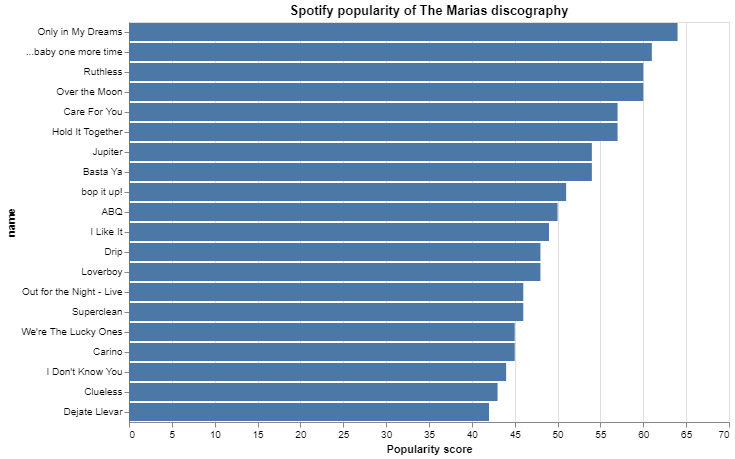
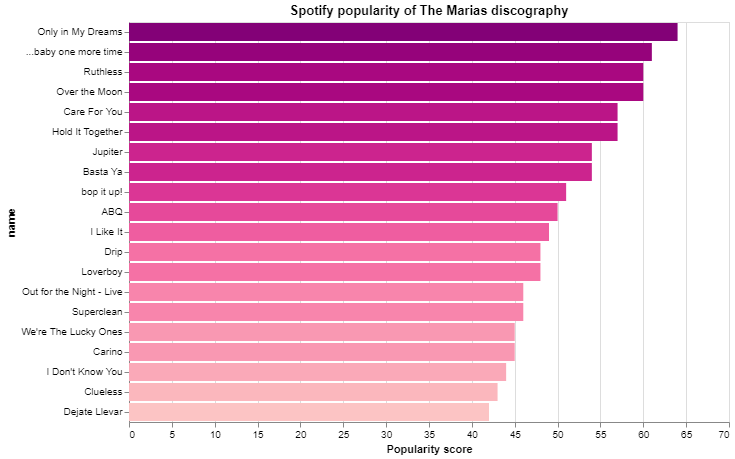
Added color encoding

diff --git a/script.js b/script.js
@@ -35,7 +35,13 @@ var barChart = {
     x: {field: "popularity", 
         type: "quantitative", 
         title: "Popularity score", 
-        scale: {domain: [0, 70]}}
+        scale: {domain: [0, 70]}},
+    color: {
+      field: "popularity",
+      type: "ordinal",
+      scale: {scheme: "redpurple"},
+      legend: null
+    }
   }
 };
 
